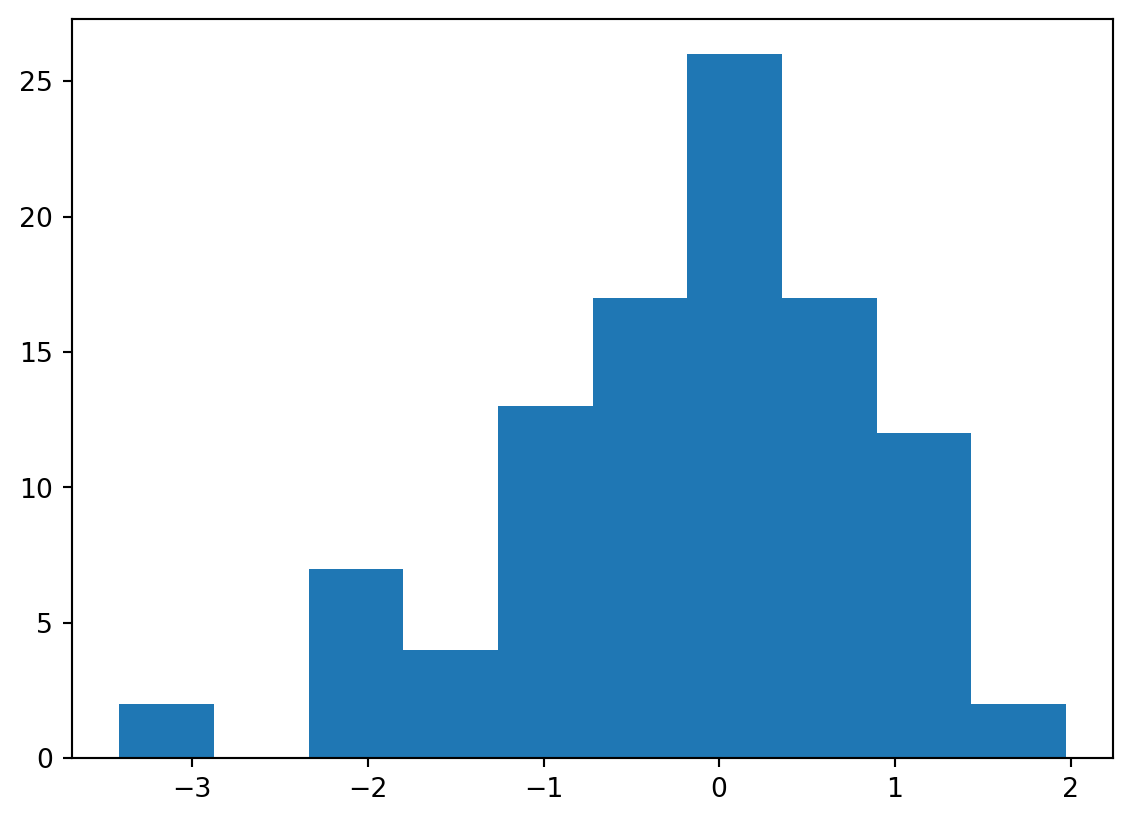
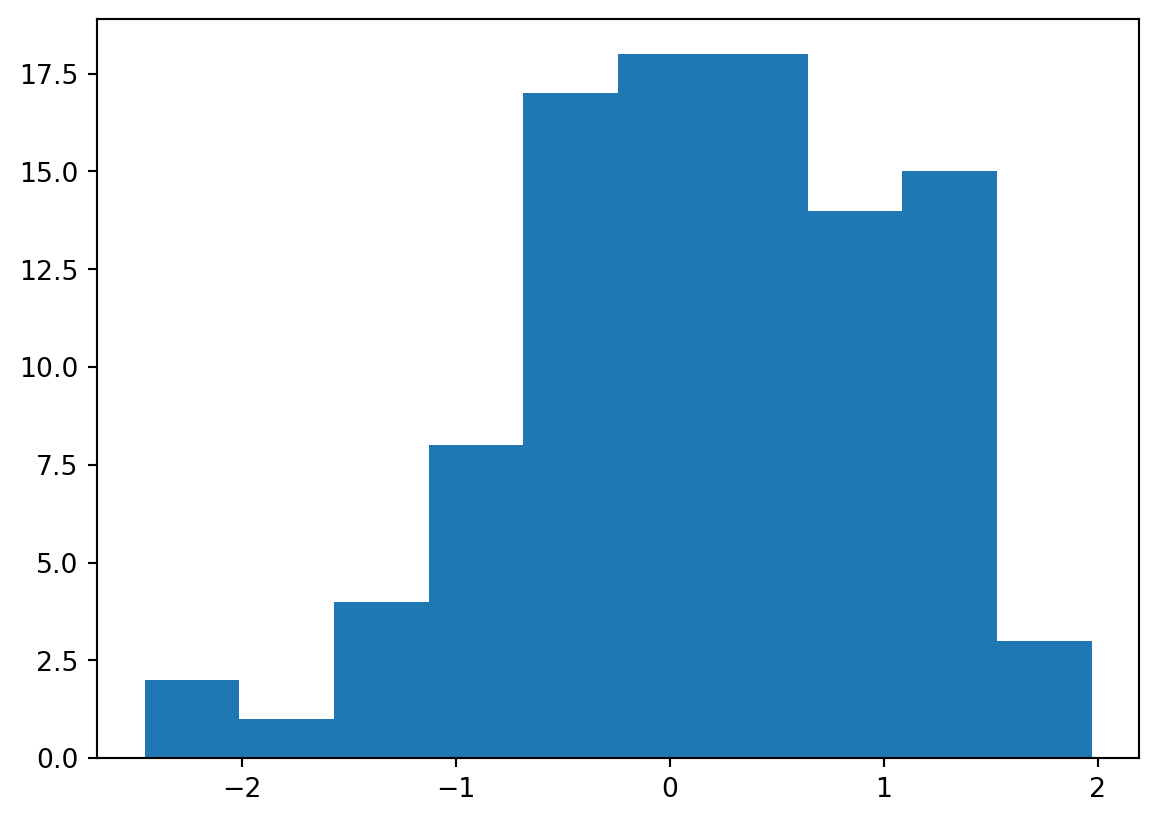
Built site for gh-pages

diff --git a/units/unit1.html b/units/unit1.html
@@ -284,7 +284,7 @@ window.Quarto = {
 <p>This is an example of using qmd as the source document.</p>
 <section id="evaluated-python-code-chunk-with-a-plot" class="level2">
 <h2 class="anchored" data-anchor-id="evaluated-python-code-chunk-with-a-plot">Evaluated Python code chunk, with a plot</h2>
-<div id="e3c84af9" class="cell" data-execution_count="1">
+<div id="0693f989" class="cell" data-execution_count="1">
 <details open="" class="code-fold">
 <summary>Code</summary>
 <div class="sourceCode cell-code" id="cb1"><pre class="sourceCode python code-with-copy"><code class="sourceCode python"><span id="cb1-1"><a href="#cb1-1" aria-hidden="true" tabindex="-1"></a><span class="im">import</span> numpy <span class="im">as</span> np</span>
@@ -297,12 +297,12 @@ window.Quarto = {
 <div class="cell-output cell-output-display">
 <div>
 <figure class="figure">
-<p><img src="unit1_files/figure-html/cell-2-output-1.png" width="566" height="411" class="figure-img"></p>
+<p><img src="unit1_files/figure-html/cell-2-output-1.png" width="579" height="411" class="figure-img"></p>
 </figure>
 </div>
 </div>
 <div class="cell-output cell-output-display" data-execution_count="1">
-<pre><code>-0.19314910085434644</code></pre>
+<pre><code>0.1857479197976898</code></pre>
 </div>
 </div>
 </section>
@@ -355,7 +355,7 @@ Tip with Title
 </div>
 <div id="tabset-1-2" class="tab-pane" role="tabpanel" aria-labelledby="tabset-1-2-tab">
 <p>This code is executed.</p>
-<div id="d721d410" class="cell" data-execution_count="2">
+<div id="ff6111d1" class="cell" data-execution_count="2">
 <details open="" class="code-fold">
 <summary>Code</summary>
 <div class="sourceCode cell-code" id="cb4"><pre class="sourceCode python code-with-copy"><code class="sourceCode python"><span id="cb4-1"><a href="#cb4-1" aria-hidden="true" tabindex="-1"></a><span class="kw">def</span> fizz_buzz(num):</span>

diff --git a/units/unit3.html b/units/unit3.html
@@ -285,7 +285,7 @@ $$
 <p>This is an example of using qmd as the source document with pdf as one target. I’ve taken out the qmd stuff that doesn’t seem to render to pdf.</p>
 <section id="evaluated-python-code-chunk-with-a-plot" class="level2">
 <h2 class="anchored" data-anchor-id="evaluated-python-code-chunk-with-a-plot">Evaluated Python code chunk, with a plot</h2>
-<div id="f55e8dc4" class="cell" data-execution_count="1">
+<div id="58b56053" class="cell" data-execution_count="1">
 <details open="" class="code-fold">
 <summary>Code</summary>
 <div class="sourceCode cell-code" id="cb1"><pre class="sourceCode python code-with-copy"><code class="sourceCode python"><span id="cb1-1"><a href="#cb1-1" aria-hidden="true" tabindex="-1"></a><span class="im">import</span> numpy <span class="im">as</span> np</span>
@@ -298,12 +298,12 @@ $$
 <div class="cell-output cell-output-display">
 <div>
 <figure class="figure">
-<p><img src="unit3_files/figure-html/cell-2-output-1.png" width="566" height="411" class="figure-img"></p>
+<p><img src="unit3_files/figure-html/cell-2-output-1.png" width="568" height="413" class="figure-img"></p>
 </figure>
 </div>
 </div>
 <div class="cell-output cell-output-display" data-execution_count="1">
-<pre><code>-0.08431633221956922</code></pre>
+<pre><code>-0.19214070957867055</code></pre>
 </div>
 </div>
 </section>
